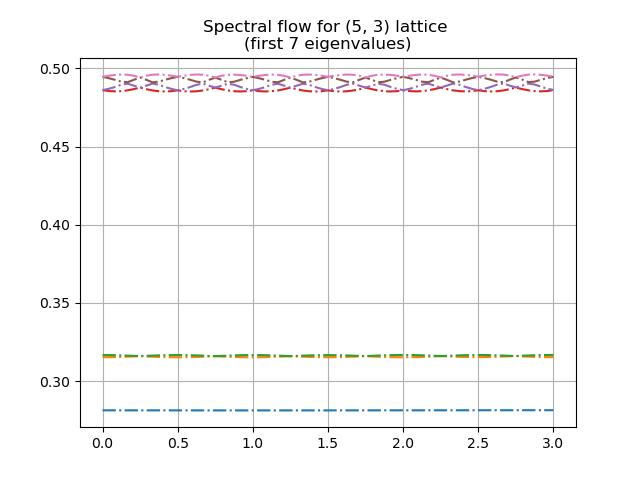
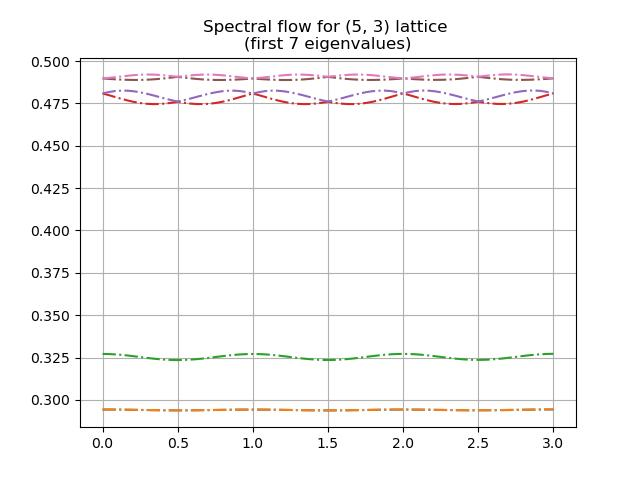
.

diff --git a/build_matrix.py b/build_matrix.py
@@ -92,7 +92,7 @@ if __name__ == "__main__":
     if build_H:
         print("Building H")
         if not (phi_y is None):
-            non_interacting_H = build_non_interacting_H(Nx, Ny, n=n,phase_shift_y= 0.5 * 2 * np.pi ,phase_shift_x= 2 * np.pi * phi_y, multi_process=multi_process,max_workers=max_workers,multiprocess_func=multiprocess_func)
+            non_interacting_H = build_non_interacting_H(Nx, Ny, n=n,phase_shift_y= 0.625 * 2 * np.pi ,phase_shift_x= 2 * np.pi * phi_y, multi_process=multi_process,max_workers=max_workers,multiprocess_func=multiprocess_func)
             os.makedirs(save_path, exist_ok=True)
             print("Saving H")
             sparse.save_npz(save_path + str(f'/H_Nx-{Nx}_Ny-{Ny}_{args.name}.npz'), non_interacting_H)
